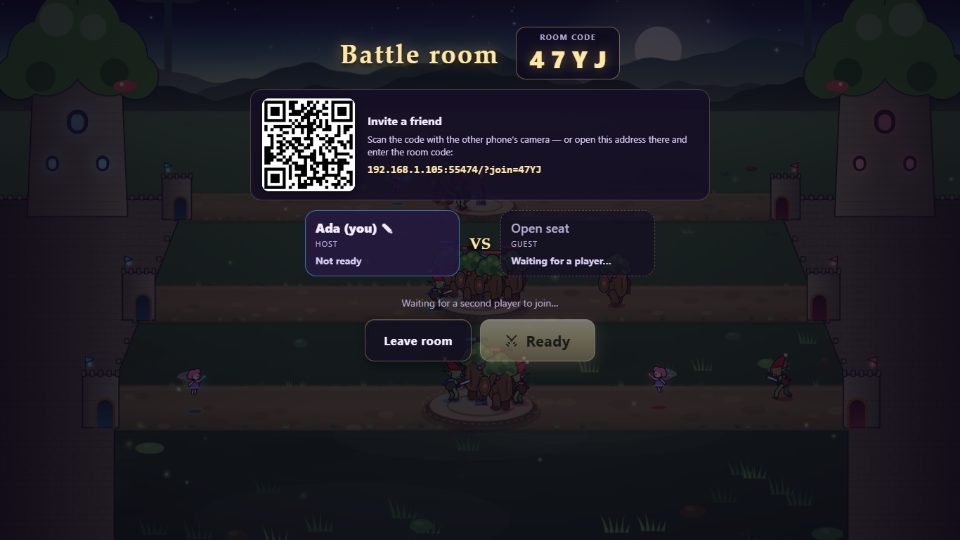
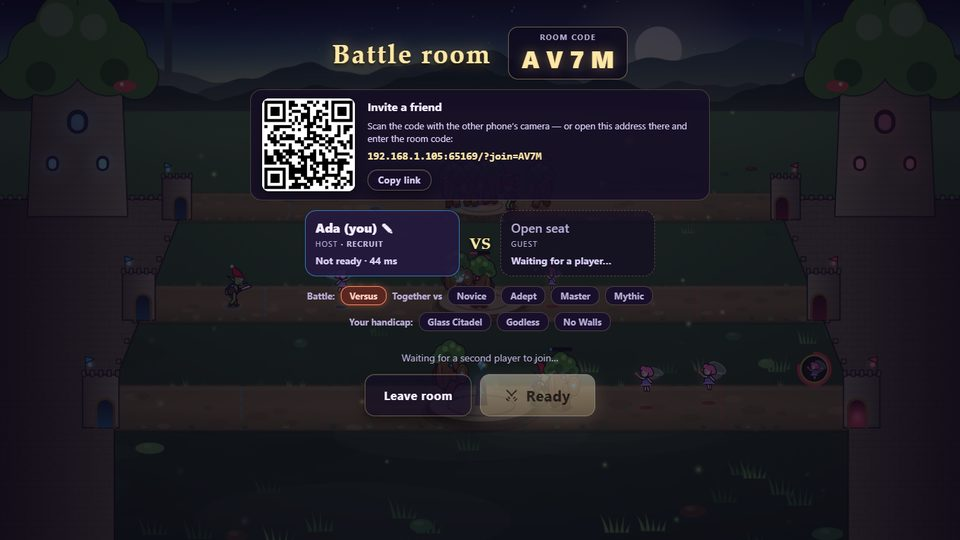
Backlog 27: README screenshots refreshed (title with the ladder, a Jade battle, the battle room with standing, a phone battle with a sigil on the foe's keep)

diff --git a/PROGRESS.md b/PROGRESS.md
@@ -97,8 +97,9 @@ the improvement backlog below (verified, committed) and add what the review find
    (Done: "Veterans are named Asterion, Bronzehorn, …" under each myth.)
 26. [x] Privacy: the device id (backlog 10) can't be reset — *Reset records* should also give the
    browser a new id, so its old Hall line is no longer linked to it. (Done; PRIVACY.md says so.)
-27. [ ] README screenshots (`docs/*.jpg`) date from runs #1–#4: no sigils, veterans, Hall of
-   champions, results tabs. Refresh the title, a late battle and the battle room.
+27. [x] README screenshots (`docs/*.jpg`) date from runs #1–#4: no sigils, veterans, Hall of
+   champions, results tabs. Refresh the title, a late battle and the battle room. (Done: title,
+   Jade battle, battle room, phone battle with a sigil on the keep; starfall/mobile/creatures kept.)
 28. [x] Gamepad (#54): nothing checks that D-pad navigation reaches the new results controls (the
    report tabs, the quick-message chips, "Now bring a friend →"). (Done: smoke walks the app's own
    D-pad moves breadth-first over the results — all 8 controls, tabs included, reachable.)
